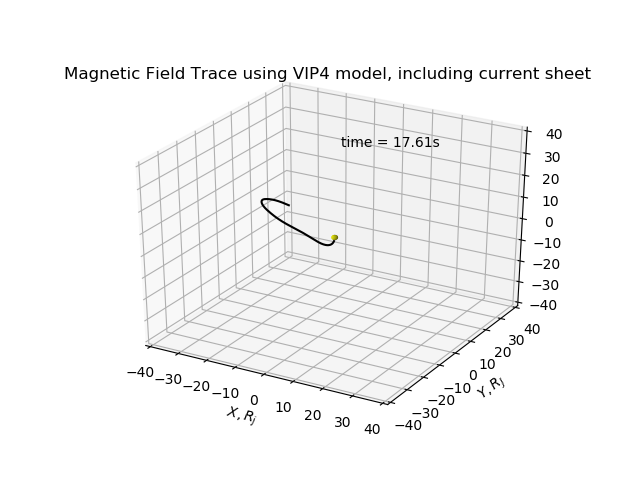
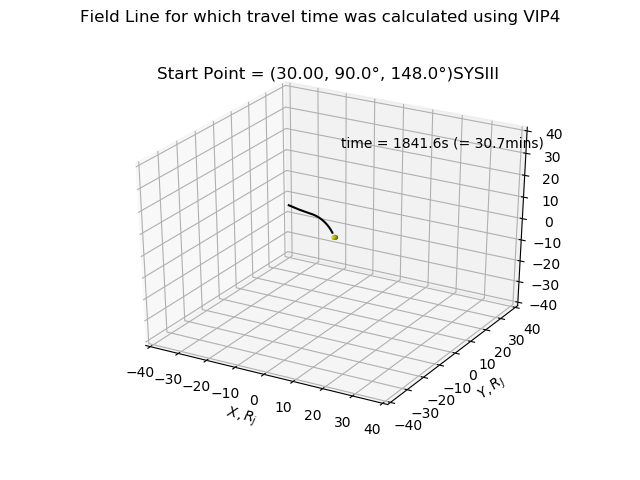
fixed travel time and gradation

diff --git a/alfven.py b/alfven.py
@@ -355,26 +355,36 @@ class AlfvenVel:
         plt.show()
     
         
-    def travel_time(self, startpoint = [30, np.pi/2, 0], direction = 'forward'):
+    def travel_time(self, startpoint = [30, np.pi/2, 212* np.pi/180], direction = 'forward', path_plot = 'off', dr_plot = 'off', print_time = 'on', va_plot ='off'):
         '''
         Calculate the travel path/time of an alfven wave from a given startpoint to the ionosphere. 
         input startpoint [r, theta, phi] where r is in rj and phi is left handed
         ''' 
         startpoint[0] = startpoint[0]*Rj
-        plot_results = self.plotter.trace_magnetic_field(starting_cordinates=startpoint, one_way='on', break_point=2, step = 0.0001, pathing= direction)
+        plot_results = self.plotter.trace_magnetic_field(starting_cordinates=startpoint, one_way='on', break_point=2, step = 0.001, pathing= direction)
         points = np.array(plot_results[0])
-        print(len(points))
-        Bs = np.array(plot_results[2]) /10e9 # turn nano tesla into T
+        #print(len(points))
+        drs = np.array(plot_results[3])
+        rs = np.array(plot_results[4])
+        drs_km = drs/1e3
+        rs_km = rs/1e3
+        rs_rj = rs/Rj
+        rs_rj_popped =  rs_rj[rs_rj > 6]
+        Bs = np.array(plot_results[2]) / 1e9 # turn nano tesla into T
         ''' 
         this returns the path taken (in terms of point by point) taken by the alfven wave (points)
         and the magnetic field at each points (Bs)
         '''  
         time = 0 
+        va_uncorrected_list = []
+        va_corrected_list = []
         for i in range(len(points)-1):
             start_point = points[i]
             end_point = points[i+1]
             difference = end_point - start_point
             distance = np.linalg.norm(difference)
+            #distance = np.sqrt( ((end_point[0] - start_point[0])**2) + ((end_point[1] - start_point[1])**2) + ((end_point[2] - start_point[2])**2) )
+            
             midpoint = end_point - difference/2
             
             B_start = Bs[i]
@@ -390,6 +400,17 @@ class AlfvenVel:
             - will also have to add in the approximate function for n inside of Io radius
             '''
             r, theta, phi = self.help.cart_to_sph(midpoint[0], midpoint[1], midpoint[2])
+            r = r/Rj
+            
+            if r < 6: 
+                '''
+                this is where the density problem lies - we need to put a better version of the density in here! 
+                ''' 
+                va = 0.9 * 3e8
+                traveltime = distance/va
+                time += traveltime
+                continue
+                
             r_cent = r 
             phi_cent = phi
             theta_shift = self.help.centrifugal_equator(r, phi)
@@ -401,44 +422,88 @@ class AlfvenVel:
             n = self.densityfunctions.density(n_0, z_cent, scaleheight)
 
             va = self.calculator(averageB, n)
-            '''  
-            -later plan to improve this to a proper relativistic correction
-            ''' 
+            #print(averageB, n)
+            va_uncorrected_list.append(va)
+
             va_corrected = self.relativistic_correction(va)
+            va_corrected_list.append(va)
+            
+            
             traveltime = distance/va_corrected
+            #print('start Point {} \nEnd Point {} \nMidpoint {} \nDifference {} \nDistance {} \nva {} \nTravel time{}\n \n '.format(start_point, end_point, midpoint, difference, distance, va_corrected, traveltime ))
             time += traveltime
-        print('travel time = {:.2f}s (= {:.1f}mins)'.format(time, time/60))
+        
+        if print_time == 'on':
+            print('travel time = {:.2f}s (= {:.1f}mins)'.format(time, time/60))
 
         '''
         As the travel time seems to be a bit weird, good idea to be plot the path etc 
         '''
         plottable_list = np.transpose(points)
+        if path_plot == 'on':
+            fig = plt.figure()
+            ax = fig.gca(projection='3d')
+            
 
-        fig = plt.figure()
-        ax = fig.gca(projection='3d')
-        
+            #turning the axis into Rj
+            plottable_list_rj = plottable_list/Rj
 
-        #turning the axis into Rj
-        plottable_list_rj = plottable_list/Rj
+            ax.plot(plottable_list_rj[0], plottable_list_rj[1], plottable_list_rj[2],color = 'black', label = 'Field Trace')
+            
+            #make the sphere and setup the plot
+            x,y, z = self.plotter.make_sphere()
+            ax.plot_surface(x, y, z, color = 'yellow', zorder=100, label = 'Jupiter')
+            ax.set_xlim3d(-40, 40)
+            ax.set_ylim3d(-40, 40)
+            ax.set_zlim3d(-40, 40)
+            ax.set_xlabel('$X, R_j$', fontsize=10)
+            ax.set_ylabel('$Y, R_J$', fontsize=10)
+            fig.suptitle('Field Line for which travel time was calculated using {}'.format(self.model))
+            ax.set_title('Start Point = ({:.2f}, {:.1f}{}, {:.1f}{})SYSIII'.format(startpoint[0]/Rj, startpoint[1] * 180/np.pi, u"\N{DEGREE SIGN}", startpoint[2] * 180/np.pi, u"\N{DEGREE SIGN}"))
+            ax.text(1,2,40, 'time = {:.1f}s (= {:.1f}mins)'.format(time, time/60))
 
-        ax.plot(plottable_list_rj[0], plottable_list_rj[1], plottable_list_rj[2],color = 'black', label = 'Field Trace')
-        
-        #make the sphere and setup the plot
-        x,y, z = self.plotter.make_sphere()
-        ax.plot_surface(x, y, z, color = 'yellow', zorder=100, label = 'Jupiter')
-        ax.set_xlim3d(-40, 40)
-        ax.set_ylim3d(-40, 40)
-        ax.set_zlim3d(-40, 40)
-        ax.set_xlabel('$X, R_j$', fontsize=10)
-        ax.set_ylabel('$Y, R_J$', fontsize=10)
-        plt.title('Magnetic Field Trace using {} model, including current sheet'.format(self.model))
-        ax.text(1,2,40, 'time = {:.2f}s'.format(time))
+            #plt.legend()
+            plt.savefig('images-24-jan-update/travel_time_trace.png'.format(self.model))
+            plt.show()
+        if dr_plot == 'on':
 
-        #plt.legend()
-        plt.savefig('images-24-jan-update/travel_time_trace.png'.format(self.model))
-        plt.show()
+            fig, ax1 = plt.subplots()
+            numbers = list(range(len(drs_km)))
+            
+            ax1.plot(numbers, drs_km, label = 'Distance Between Points (km)', color = 'k')
+            ax1.set_xlabel('Point Index')
+            ax1.set_ylabel('Distance Between Points (km)', color = 'k')
+            ax1.tick_params(axis='y', labelcolor='k')
+            #ax1.legend(loc=0)
 
-        return time
+            ax2 = ax1.twinx() 
+            ax2.plot(numbers, rs_km, label = 'r ($km$)', color = 'c', linestyle ='--')
+            ax2.set_ylabel('Distance From Planet (km)', color = 'c')
+            ax2.tick_params(axis='y', labelcolor='c')
+            #ax2.legend(loc = 1)
+            #plt.legend()
+            plt.show()
+        if va_plot == 'on':
+            fig, ax1 = plt.subplots()
+            numbers = list(range(len(va_corrected_list)))
+            
+            ax1.plot(numbers, va_corrected_list, label = '$v_A$ corrected ($ms^{-1}$)', color = 'c')
+            ax1.set_xlabel('Point Index')
+            ax1.set_ylabel('Speed ($ms^{-1}$)', color = 'b')
+            ax1.tick_params(axis='y', labelcolor='b')
+            ax1.plot(numbers, va_uncorrected_list, label = '$v_A$ uncorrected ($ms^{-1}$)', color = 'b', linestyle ='--')
+            #ax1.legend()
+            ax2 = ax1.twinx() 
+            ax2.plot(numbers, rs_rj_popped, label = 'Distance from planet ($R_J$)', color = 'r', linestyle ='-')
+            ax2.set_ylabel('R ($R_J$)', color = 'r')
+            ax2.tick_params(axis='y', labelcolor='r')
+            #ax2.legend()
+            #plt.grid(True)
+            plt.figlegend()
+            fig.suptitle('Effect of including relativistic correction')
+            plt.savefig('images-24-jan-update/va correction effects.png')
+            plt.show()
+        return time, va_corrected_list, va_uncorrected_list, plottable_list, rs_km
 
 
     def relativistic_correction(self, va):
@@ -447,8 +512,58 @@ class AlfvenVel:
         return corrected va 
         equation taken from https://www.aanda.org/articles/aa/pdf/2012/06/aa18630-11.pdf eq 2. 
         '''
-        corrected_va = (va * 3e8)/np.sqrt(va**2 + 3e8**2)
+        corrected_va = (va * 3e8)/np.sqrt(va**2 + (3e8)**2)
         return corrected_va
+
+    def plot_rel_effect(self, both = 'on'):
+        calc = self.travel_time()
+        points_plottable = calc[3]
+        plottable_list_rj = points_plottable/Rj
+        va_uncorrected_list = np.array(calc[2])/1e3
+        va_corrected_list = np.array(calc[1])/1e3
+        numbers = list(range(len(va_corrected_list)))
+        rs_km = calc[4]
+        rs_km_plot = rs_km[:-1]
+        if both =='on':
+            fig = plt.figure(figsize=plt.figaspect(.5))
+            ax = fig.add_subplot(1, 2, 1, projection='3d')
+            x,y, z = self.plotter.make_sphere()
+            ax.plot_surface(x, y, z, color = 'yellow', zorder=100, label = 'Jupiter')
+            ax.set_xlim3d(-40, 40)
+            ax.set_ylim3d(-40, 40)
+            ax.set_zlim3d(-40, 40)
+            ax.set_xlabel('$X, R_j$', fontsize=10)
+            ax.set_ylabel('$Y, R_J$', fontsize=10)
+            ax.plot(plottable_list_rj[0], plottable_list_rj[1], plottable_list_rj[2],color = 'black', label = 'Field Trace')
+
+            ax2 = fig.add_subplot(1, 2, 2)
+            ax2.plot(rs_km_plot, va_corrected_list, label = 'va corrected', color = 'c')
+
+            ax3 = ax2.twinx()
+
+            ax3.plot(rs_km_plot, va_uncorrected_list, label = 'va uncorrected', color = 'r', linestyle = '--')
+
+            plt.show()
+
+    def plot_correction(self):
+        c = 3e8
+        speeds = np.linspace(0, 10*c, num = 1000)    
+        rel_speeds = []
+        for speed in speeds:
+            rel_speed = self.relativistic_correction(speed)
+            rel_speeds.append(rel_speed)    
+        normalised_rel_speeds = np.array(rel_speeds)/c
+        normalised_speeds = np.array(speeds)/c
+        fig, ax = plt.subplots()
+        ax.plot(normalised_rel_speeds, normalised_speeds, color = 'b')
+        ax.set(ylabel = 'Speed/c', xlabel = 'Corrected Speed/c')#, xlim =(0,1.6*c), ylim =(0,1.6*c))
+        plt.suptitle('Effect of Relatavistic Correction on Speed')
+        ax.grid()
+
+        plt.show()
+
+      
+
 
             
 
@@ -457,7 +572,8 @@ test = AlfvenVel(numpoints=200)
 #test.top_down_matched_equators()
 
 #test.topdown_seperate_equators(density = 'on')
-test.travel_time([30, np.pi/2, 212* np.pi/180], direction='forward')
+test.travel_time([30, np.pi/2, 212* np.pi/180], direction='backward', dr_plot='off', path_plot = 'off', va_plot = 'on')
 #test.sideview_seperate_equators(331)
-                
+#test.plot_rel_effect()
+#test.plot_correction()
 

diff --git a/field_and_current_sheet.py b/field_and_current_sheet.py
@@ -71,6 +71,8 @@ class InternalAndCS:
         points = [] #this is the list that will eventually be plotted
         Br_list = []
         B_list = []
+        dr_list = []
+        r_list = []
         i = 0
         direction = 1
         if pathing == 'backward':
@@ -82,6 +84,7 @@ class InternalAndCS:
             loops for as long as r is larger than a defined value
             '''
             r = coordinates[0]
+            
             if r <= break_point * Rj: #defines when the loop is broken out of 
                 if one_way == 'on':
                     break
@@ -113,6 +116,8 @@ class InternalAndCS:
             coordinates = [px,py,pz] #change the definition of the coordinates from spherical to cartesian 
             Bunit = self.help.unit_vector_cart(B) #calculates the unit vector in cartesian direction
             dr = r * step  #THIS IS HOW WE UPPDATE THE COORDINATES - IF IT TAKES TOO LONG, THIS NEEDS CHANGING IF IT TAKES TOO LONG OR IS GETTING WEIRD CLOSE TO PLANET
+            dr_list.append(dr)
+            r_list.append(r)
             change = dr * Bunit * direction * path_direction#the change from this coordinate to the next one is calculated
             coordinates = np.add(coordinates, change) #add the change to the current co ordinate
             pr, ptheta, pphi = self.help.cart_to_sph(coordinates[0], coordinates[1], coordinates[2]) #change the coordinatres back in spherical
@@ -126,7 +131,7 @@ class InternalAndCS:
                     print(' x= {}, y = {}, z =  {}'.format(px,py,pz))
                     print('bunit = {}, change = {}, dr = {} \n \n'.format(Bunit, change, dr))
  
-        return points, Br_list, B_list
+        return points, Br_list, B_list, dr_list, r_list
 
 
 

diff --git a/density_height.py b/density_height.py
@@ -11,6 +11,7 @@ import matplotlib as mpl
 from mag_field_models import field_models
 import scipy
 import scipy.special
+import matplotlib.colors as mcolors
 from radial_outflow import radialOutflow
 from matplotlib import ticker, cm
 from field_and_current_sheet import InternalAndCS
@@ -205,7 +206,10 @@ class DensityHeight:
         densities_cm = np.array(densities)/1e6
         densities_cm_edits = np.clip(densities_cm, 1e-2, 1e10)
         fig, ax = plt.subplots(figsize = (25,16))
-        cont = ax.contourf(grids, gridz, densities_cm_edits, cmap = 'bone', locator=ticker.LogLocator())
+        lev_exp = np.arange(np.floor(np.log10(densities_cm_edits.min())-1), np.ceil(np.log10(densities_cm_edits.max())+1), step = 0.5)
+        print(lev_exp)
+        levs = np.power(10, lev_exp)
+        cont = ax.contourf(grids, gridz, densities_cm_edits, cmap = 'bone', levels = levs, norm=mcolors.LogNorm())#, locator=ticker.LogLocator()) #, levels = 14)
         ax.add_patch(Circle((0,0), 1, color='y', zorder=100, label = "Jupiter"))
         ax.add_patch(Circle((0,0), 6, color='c', zorder=90, label = "Io Orbital Radius"))
         ax.text(0.95, 0.01, 'SYS III (LH) Longitutude = {}{} '.format(phi_lh, u"\N{DEGREE SIGN}"),
@@ -254,11 +258,9 @@ class DensityHeight:
 
 
 
-'''
 
 test = DensityHeight(numpoints= 100, start= 5, stop = 30)
 #test.plotting(scale_height='on', density = 'on')    
 #test.equators_cent_calculated()
 #test.density_sep_equators(30, np.pi/2, 360*np.pi/180)
 test.meridian_slice(159)
-'''
